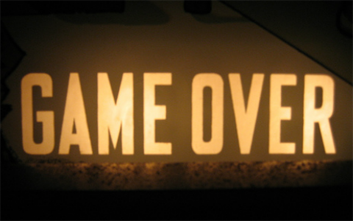
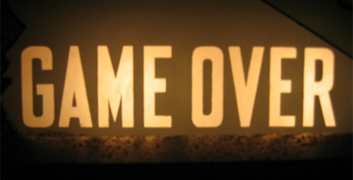
die screen resize

diff --git a/draw.js b/draw.js
@@ -278,17 +278,19 @@ function resizeMenu(){
     var menuImgOriginalHeight = 252;
 
     var endImgOriginalWidth = 353;
-    var endImgOriginalHeight =221;
+    var endImgOriginalHeight =180;
 
     var top_pic = document.getElementById("top_pic");
     var new_game = document.getElementById("new_game");
     var continue1 = document.getElementById("continue");
     var over_controls = document.getElementById("over_controls");
+    var over_pic_div = document.getElementById("go");
+    var over_pic = document.getElementById("go_pic");
     if (!on_pause) {
         return
     }
     var over = document.getElementById("over");
-    var score = document.getElementById("score");
+    var score_div = document.getElementById("score");
     var try1 = document.getElementById("try");
 
     if (body_width > body_height) {
@@ -315,12 +317,19 @@ function resizeMenu(){
 
 
         //Resize Ending screen
-        //var ratio = (body_height * 0.6)/menuImgOriginalHeight;
+        var ratio = (body_height * 0.6)/endImgOriginalHeight;
         var endImgNewWidth = Number(endImgOriginalWidth * ratio);
+        var endImgNewHeight = Number(body_height * 0.6);
         //alert(endImgNewWidth);
 
         over.style.width = endImgNewWidth + "px";
+        over.style.height = "100%";
+        over_pic.style.width = endImgNewWidth + "px";
+        over_pic.style.height = endImgNewHeight + "px";
         over_controls.style.width = endImgNewWidth + "px";
+        score_div.style.fontSize = ratio*30+"px"
+        score_div.innerHTML = "Score: "+score;
+
 
 
 
@@ -339,6 +348,19 @@ function resizeMenu(){
         //alert(body_width);
         over.style.width = Number(body_width *0.8) + "px";
         over_controls.style.width = Number(body_width *0.8) + "px";
+
+        var ratio = (body_width * 0.9)/endImgOriginalWidth;
+        var endImgNewHeight= Number(endImgOriginalHeight * ratio);
+        var endImgNewWidth = Number(body_width * 0.9);
+        //alert(endImgNewWidth);
+
+        over.style.width = endImgNewWidth + "px";
+        over.style.height = "100%";
+        over_pic.style.width = endImgNewWidth + "px";
+        over_pic.style.height = endImgNewHeight + "px";
+        over_controls.style.width = endImgNewWidth + "px";
+        score_div.style.fontSize = ratio*50+"px"
+        score_div.innerHTML = "Score: "+score;
 
         /*var over_controlsHeight = Number((body_height - (menuImgOriginalHeight*ratio)));
 

diff --git a/index.html b/index.html
@@ -94,14 +94,13 @@
     <div id="over">
 
         <div id="go">
-            <img src="images/go1.png">
+            <img id="go_pic" src="images/go1.png">
         </div>
 
         <div id="over_controls">
 
             <div id="score"></div>
             <div id="try"><a href="" onclick="ng()"><img src="images/ta.png"></a></div>
-            <div id="sad"></div>
 
         </div>
     </div>
@@ -149,6 +148,7 @@
 
         window.onresize = function() {
             resize();
+            resizeMenu();
         };
         $('#menu').hide();
         $('#over').hide();

diff --git a/menu.css b/menu.css
@@ -84,18 +84,14 @@ div#continue img {
 }
 #score {
 
-    padding-left: 80px;
-
-    background-image: url('images/Score.png');
-    background-repeat: no-repeat;
     color: #ffffff;
     font-size: 5em;
     overflow: hidden;
 }
 
-div#try img {
+div#try {
     border: 1px solid white;
-    width: 100%;
+    width: 99%;
 }
 
 #go {
